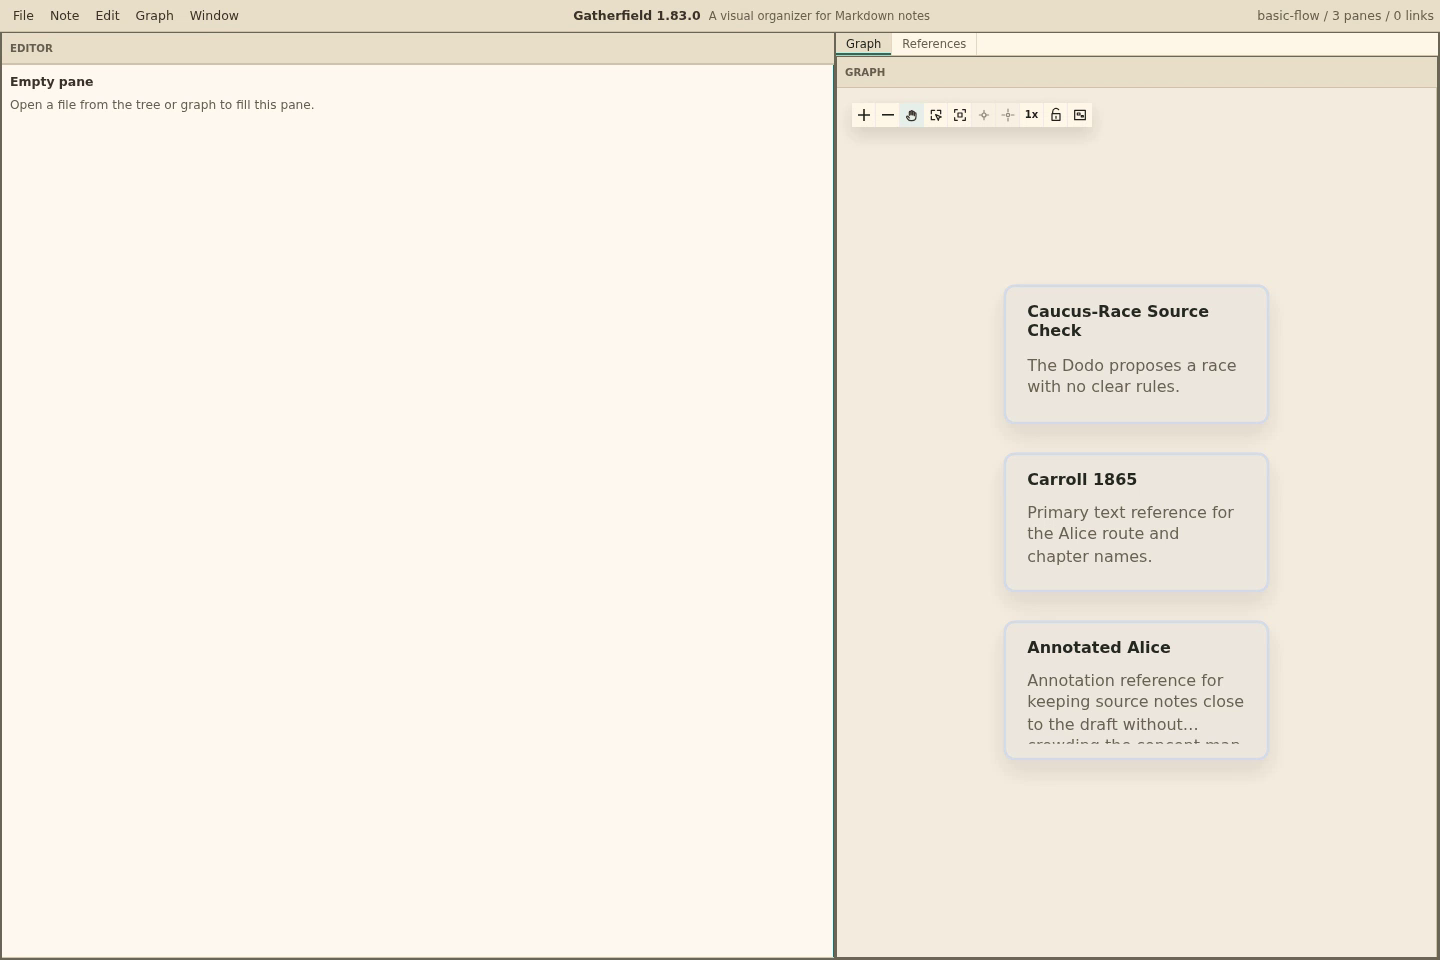
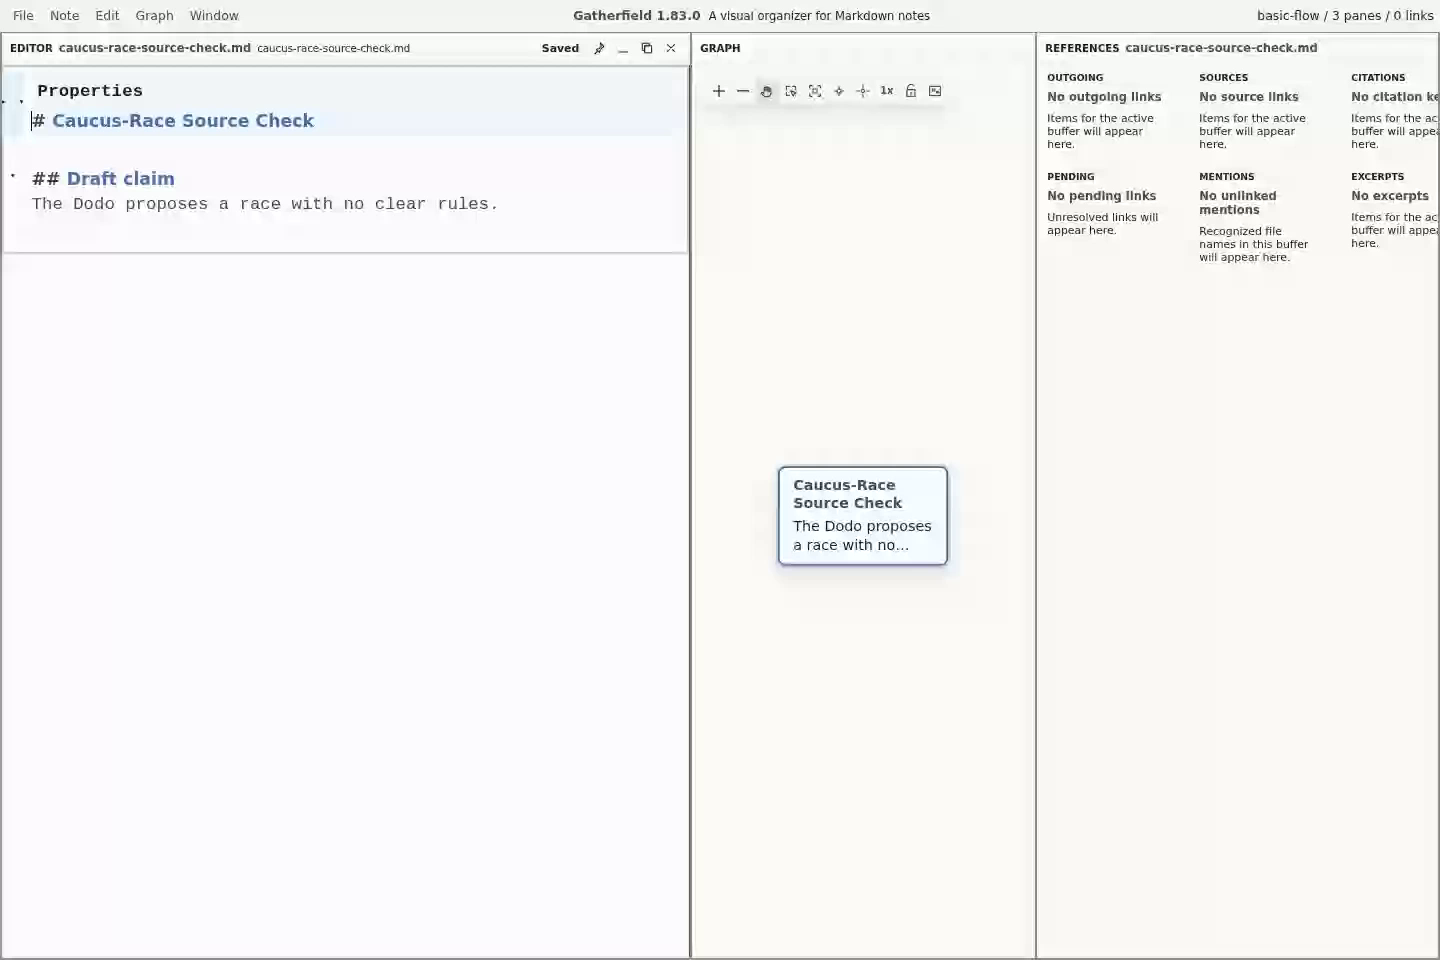
Revise source references video

diff --git a/index.html b/index.html
@@ -175,7 +175,7 @@
                 <a href="./assets/videos/2026-06-13-research-out-of-concept-map.mp4?v=20260613-latest">this link</a>.
               </video>
             </div>
-            <figcaption>13s: sources stay close without crowding the concept map.</figcaption>
+            <figcaption>11s: sources and citekeys collect while the concept map stays clean.</figcaption>
           </figure>
         </article>
 
@@ -241,7 +241,7 @@
           <p class="eyebrow">Built for serious work</p>
           <h2 id="supporting-title">The main proofs stay short. The workspace still goes deep.</h2>
           <p>
-            These capabilities support the six core workflows without needing their own homepage video.
+            Once the core work is moving, Gatherfield gives each project room to choose the map, layout, and metadata that fit.
           </p>
         </div>
         <div class="supporting-grid">